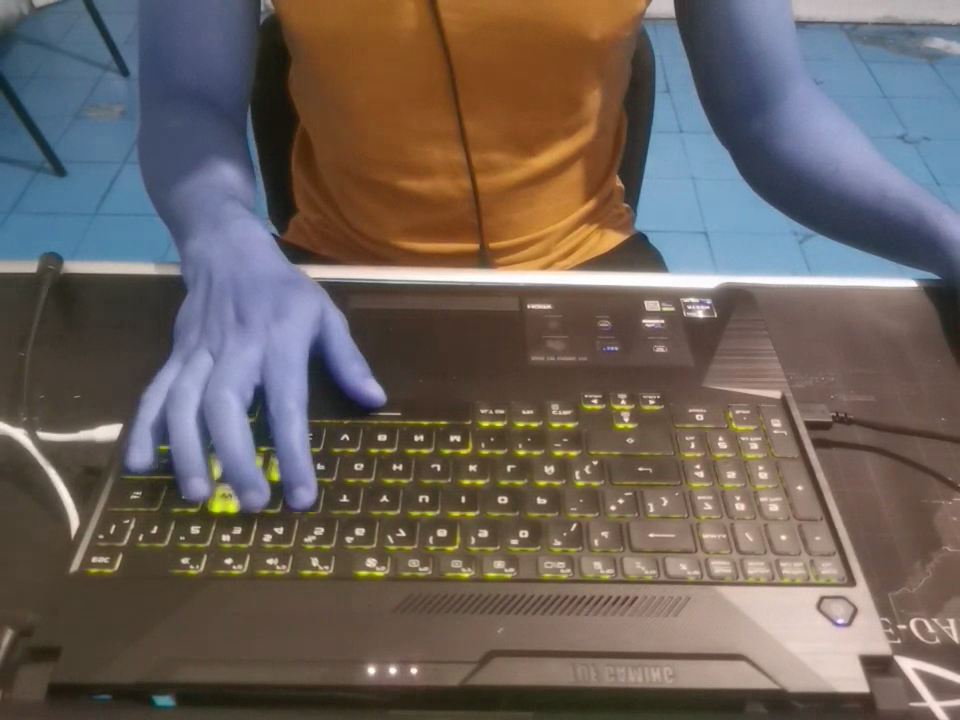
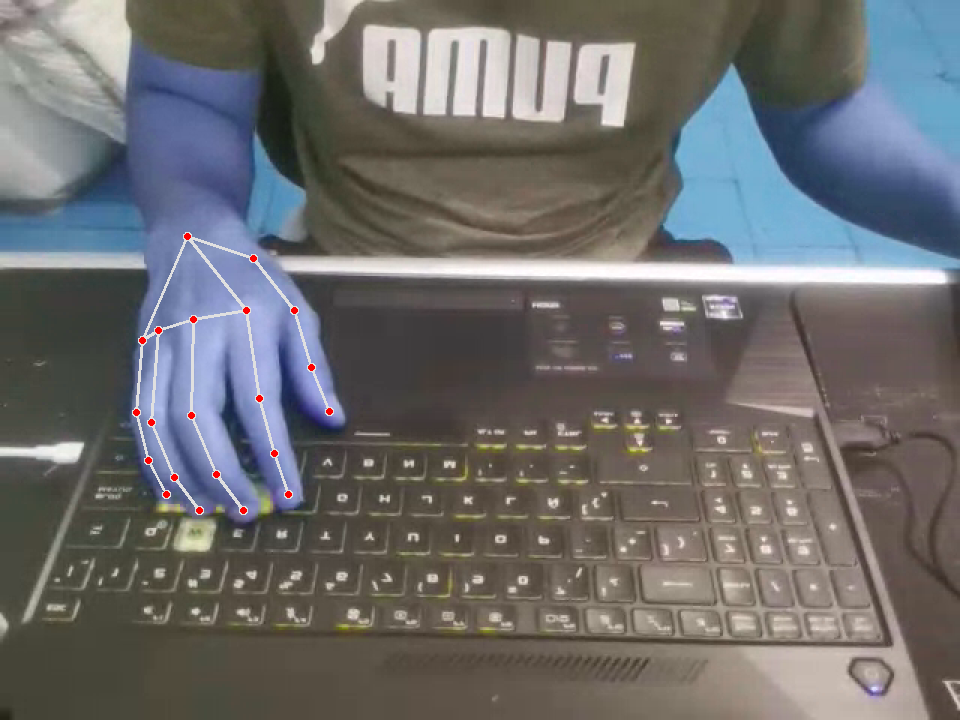
Se implemento setkeys para agregar coordenadas de los dedos. Falta corregir la manera en que js agrega las teclas

diff --git a/static/js/index.js b/static/js/index.js
@@ -209,12 +209,12 @@ function loadParagraph() {
     typingText.innerHTML += span;
   });
   typingText.querySelectorAll("span")[0].classList.add("active");
-  document.addEventListener("keydown", presion);
+  document.addEventListener("keypress", presion);
   typingText.addEventListener("click", () => inpField.focus());
 }
 
 function presion(event) {
-  dc.send(event.key);
+  dc.send(event.charCode.toString());
 };
 
 function initTyping(kp) {

diff --git a/static/js/paragraph.js b/static/js/paragraph.js
@@ -1,3 +1,3 @@
 const paragraphs = [
-    "grave que ponzoña de whisky, exclamaba grave. ",
+    "fijate que ponzoña de whisky, exclamaba grave. ",
 ];

diff --git a/main.py b/main.py
@@ -4,7 +4,7 @@ import mediapipe as mp
 import time
 import threading
 import os
-import concurrent.futures
+import numpy as np
 from fastapi import FastAPI
 from fastapi import FastAPI, WebSocket
 from fastapi.staticfiles import StaticFiles
@@ -34,7 +34,6 @@ hands = mp_hands.Hands(
     min_detection_confidence=0.5)
 
 frame_img = ""
-coords = json2dic('./src/coords.json')
 
 dis = json2dic('./src/key_distribution.json')
 
@@ -49,6 +48,13 @@ SSO = GoogleSSO(client_id=GOOGLE_CLIENT_ID, client_secret=GOOGLE_SECRET,
 
 
 executor = ThreadPoolExecutor(max_workers=8)
+
+width = 960
+height = 720
+dim = (width, height)
+
+coords = {}
+first = True
 
 
 class VideoTransformTrack(MediaStreamTrack):
@@ -76,41 +82,64 @@ class ThreadTestCoords(threading.Thread):
         between_callback(self.data, self.channel)
 
 
-def test_key_coords(frame, coords, data):
-    img = frame.to_ndarray(format="bgr24")
-    img = cv2.cvtColor(cv2.flip(img, 1), cv2.COLOR_BGR2RGB)
-    img.flags.writeable = False
-    results = hands.process(img)
+class ThreadTestCoords2(threading.Thread):
+    def __init__(self, data):
+        threading.Thread.__init__(self)
+        self.data = data
+
+    def run(self):
+        between_callback2(self.data)
+
+
+async def set_keys(data):
+    global coords
+    global first
+    time.sleep(0.15)
+    print(data)
+    if data == "27":
+        first = False
+        for data in coords:
+            coords[data] = np.divide(coords[data], coords[data][3]).tolist()
+            coords[data].pop()
+        dic2json("./src/coords.json", coords)
+        return
+    frame = frame_img.to_ndarray(format="bgr24")
+    frame = cv2.cvtColor(cv2.flip(frame, 1), cv2.COLOR_BGR2RGB)
+    frame = cv2.resize(frame, dim, interpolation=cv2.INTER_AREA)
+    results = hands.process(frame)
+    if results.multi_hand_landmarks:
+        for idx, hand_landmarks in enumerate(results.multi_hand_landmarks):
+            mano = results.multi_handedness[idx].classification[0].label
+            mp_drawing.draw_landmarks(
+                frame, hand_landmarks, mp_hands.HAND_CONNECTIONS)
+            cv2.imwrite("c1.png", frame)
+            if data in dis[mano]:
+                if data in coords:
+                    coords[data] = np.add(coords[data], [hand_landmarks.landmark[dis[mano][data]].x,
+                                                         hand_landmarks.landmark[dis[mano][data]].y, hand_landmarks.landmark[dis[mano][data]].z, 1]).tolist()
+                else:
+                    coords[data] = ([hand_landmarks.landmark[dis[mano][data]].x,
+                                    hand_landmarks.landmark[dis[mano][data]].y, hand_landmarks.landmark[dis[mano][data]].z, 1])
+    else:
+        print("Enfoque la camara")
+
+
+async def test_keys(data, channel):
+    time.sleep(0.15)
+    frame = frame_img.to_ndarray(format="bgr24")
+    frame = cv2.cvtColor(cv2.flip(frame, 1), cv2.COLOR_BGR2RGB)
+    # Redimensiona la imagen para que las coordenadas no cambien
+    frame = cv2.resize(frame, dim, interpolation=cv2.INTER_AREA)
+    results = hands.process(frame)
+    #cv2.imwrite('c1.png', frame)
     if results.multi_hand_landmarks:
         for idx, hand_landmarks in enumerate(results.multi_hand_landmarks):
             mano = results.multi_handedness[idx].classification[0].label
             if data in dis[mano]:
-                if abs(hand_landmarks.landmark[dis[mano][data]].x -
-                        coords[data][0]) < 0.025 and abs(hand_landmarks.landmark[dis[mano][data]].y -
-                                                         coords[data][1]) < 0.025:
-                    return True
+                if abs(hand_landmarks.landmark[dis[mano][data]].x - coords[data][0]) < 0.025 and abs(hand_landmarks.landmark[dis[mano][data]].y - coords[data][1]) < 0.025:
+                    channel.send(data)
                 else:
-                    return False
-
-
-async def test_keys(data, channel):
-    if frame_img.width > 900:
-        time.sleep(0.15)
-        frame = frame_img.to_ndarray(format="bgr24")
-        frame = cv2.cvtColor(cv2.flip(frame, 1), cv2.COLOR_BGR2RGB)
-        results = hands.process(frame)
-        #cv2.imwrite('c1.png', frame)
-        if results.multi_hand_landmarks:
-            for idx, hand_landmarks in enumerate(results.multi_hand_landmarks):
-                mano = results.multi_handedness[idx].classification[0].label
-                if data in dis[mano]:
-                    if abs(hand_landmarks.landmark[dis[mano][data]].x - coords[data][0]) < 0.025 and abs(hand_landmarks.landmark[dis[mano][data]].y - coords[data][1]) < 0.025:
-                        channel.send(data)
-                    else:
-                        print(data)
-                        cv2.imwrite('c1.png', frame)
-    else:
-        print(data, ": ", frame_img.width)
+                    cv2.imwrite('c1.png', frame)
 
 
 """
@@ -157,6 +186,13 @@ def between_callback(data, channel):
     loop.close()
 
 
+def between_callback2(data):
+    loop = asyncio.new_event_loop()
+    asyncio.set_event_loop(loop)
+    loop.run_until_complete(set_keys(data))
+    loop.close()
+
+
 '''
 @app.websocket("/ws")
 async def websocket_endpoint(websocket: WebSocket):
@@ -183,7 +219,10 @@ async def offer(params: Offer):
     def on_datachannel(channel):
         @channel.on("message")
         async def on_message(message):
-            f = executor.submit(between_callback, message, channel)
+            if first == True:
+                executor.submit(between_callback2, message)
+            else:
+                executor.submit(between_callback, message, channel)
 
     @pc.on("connectionstatechange")
     async def on_connectionstatechange():
